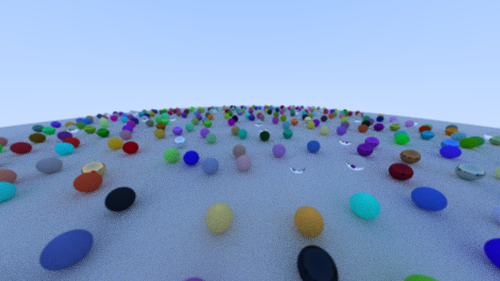
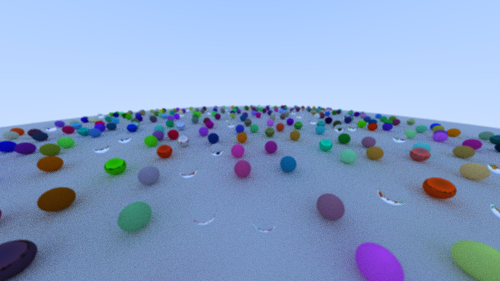
add basic config

diff --git a/src/main.rs b/src/main.rs
@@ -20,6 +20,8 @@ use vec::Color;
 use vec::Point;
 use vec::Vec3;
 
+use serde::{Deserialize, Serialize};
+
 fn ppm_print(img: &[Vec<Color>]) {
     println!("P3\n{} {}\n255", img[0].len(), img.len());
     for row in img {
@@ -196,36 +198,30 @@ fn ray_color(r: Ray, w: &World, depth: u32) -> Color {
     }
 }
 
-fn create_camera(aspect_ratio: f32) -> camera::Camera {
-    let lookfrom = Point {
-        x: 13.0,
-        y: 5.0,
-        z: 2.0,
-    };
-    // let lookfrom = Point {
-    // x: 1.0,
-    // y: 0.0,
-    // z: 1.0,
-    // };
-    let lookat = Point {
-        x: 0.0,
-        y: 0.0,
-        z: -1.0,
-    };
-    let vup = Vec3 {
-        x: 0.0,
-        y: 1.0,
-        z: 0.0,
-    };
-    camera::Camera::new(lookfrom, lookat, vup, 90.0, aspect_ratio, 0.1, 12.0)
+#[derive(Serialize, Deserialize, Debug)]
+struct RenderConfig {
+    aspect_ratio: f32,
+    img_width: usize,
+    img_height: usize,
+    number_of_samples: u32,
+    depth: u32,
 }
 
+#[derive(Serialize, Deserialize, Debug)]
+struct Config {
+    render_config: RenderConfig,
+    camera_config: camera::CameraConfig,
+}
+
+use std::fs::File;
+use std::io::BufReader;
+
 fn main() {
-    let aspect_ratio = 16.0 / 9.0;
-    let img_width: usize = 500;
-    let img_height: usize = (img_width as f32 / aspect_ratio) as usize;
-    let number_of_samples = 100;
-    let depth = 10;
+    let config_file = File::open("config").expect("Couldn't open file");
+    let buf_reader = BufReader::new(config_file);
+    let config: Config = serde_json::from_reader(buf_reader).expect("Couldn't deserialize config");
+
+    let render_config = config.render_config;
 
     let mut img = vec![
         vec![
@@ -234,30 +230,29 @@ fn main() {
                 y: 0.0,
                 z: 0.0
             };
-            img_width
+            render_config.img_width
         ];
-        img_height
+        render_config.img_height
     ];
 
-    let cam = create_camera(aspect_ratio);
+    let cam = camera::Camera::new(config.camera_config);
     let w = generate_world();
-    // let w = get_world();
 
     let c_rows = AtomicUsize::new(0);
     img.par_iter_mut().enumerate().for_each(|(i, row)| {
         for (j, cell) in row.iter_mut().enumerate() {
-            let (r, c) = ((img_height - i - 1) as f32, j as f32);
+            let (r, c) = ((render_config.img_height - i - 1) as f32, j as f32);
 
-            for _ in 0..number_of_samples {
-                let u = (r + rand::get_random_offset()) / (img_height - 1) as f32;
-                let v = (c + rand::get_random_offset()) / (img_width - 1) as f32;
-                *cell = *cell + ray_color(cam.get_ray(u, v), &w, depth);
+            for _ in 0..render_config.number_of_samples {
+                let u = (r + rand::get_random_offset()) / (render_config.img_height - 1) as f32;
+                let v = (c + rand::get_random_offset()) / (render_config.img_width - 1) as f32;
+                *cell = *cell + ray_color(cam.get_ray(u, v), &w, render_config.depth);
             }
 
-            *cell = *cell / (number_of_samples as f32);
+            *cell = *cell / (render_config.number_of_samples as f32);
         }
         let rows_done = c_rows.fetch_add(1, Ordering::SeqCst);
-        eprintln!("Rows remaining {}", img_height - rows_done);
+        eprintln!("Rows remaining {}", render_config.img_height - rows_done);
     });
 
     eprintln!("Printing image..");

diff --git a/src/camera.rs b/src/camera.rs
@@ -3,6 +3,7 @@ use crate::vec::cross;
 use crate::Point;
 use crate::Ray;
 use crate::Vec3;
+use serde::{Deserialize, Serialize};
 use std::f32::consts::PI;
 
 pub struct Camera {
@@ -15,32 +16,35 @@ pub struct Camera {
     v: Vec3,
 }
 
-impl Camera {
-    pub fn new(
-        lookfrom: Point,
-        lookat: Point,
-        vup: Vec3,
-        vfov: f32,
-        aspect_ratio: f32,
-        aperture: f32,
-        focus_dist: f32,
-    ) -> Self {
-        let theta = vfov / 180.0 * PI;
+#[derive(Serialize, Deserialize, Debug)]
+pub struct CameraConfig {
+    pub lookfrom: Point,
+    pub lookat: Point,
+    pub vup: Vec3,
+    pub vfov: f32,
+    pub aspect_ratio: f32,
+    pub aperture: f32,
+    pub focus_dist: f32,
+}
 
-        let w = (lookfrom - lookat).unit();
-        let u = cross(vup, w).unit();
+impl Camera {
+    pub fn new(config: CameraConfig) -> Self {
+        let theta = config.vfov / 180.0 * PI;
+
+        let w = (config.lookfrom - config.lookat).unit();
+        let u = cross(config.vup, w).unit();
         let v = cross(w, u).unit();
 
         let h = (theta / 2.0).tan();
         let viewport_height = h * 2.0;
-        let viewport_width = viewport_height * aspect_ratio;
+        let viewport_width = viewport_height * config.aspect_ratio;
 
-        let origin: Point = lookfrom;
-        let horizontal = u * viewport_width * focus_dist;
-        let vertical = v * viewport_height * focus_dist;
-        let lower_left_corner = origin - horizontal / 2.0 - vertical / 2.0 - w * focus_dist;
+        let origin: Point = config.lookfrom;
+        let horizontal = u * viewport_width * config.focus_dist;
+        let vertical = v * viewport_height * config.focus_dist;
+        let lower_left_corner = origin - horizontal / 2.0 - vertical / 2.0 - w * config.focus_dist;
 
-        let lens_radius = aperture / 2.0;
+        let lens_radius = config.aperture / 2.0;
 
         Self {
             origin,

diff --git a/src/vec.rs b/src/vec.rs
@@ -1,7 +1,8 @@
+use serde::{Deserialize, Serialize};
 use std::fmt;
 use std::ops;
 
-#[derive(Clone, Copy, Debug, Default, PartialEq)]
+#[derive(Clone, Copy, Debug, Default, PartialEq, Serialize, Deserialize)]
 pub struct Vec3 {
     pub x: f32,
     pub y: f32,
